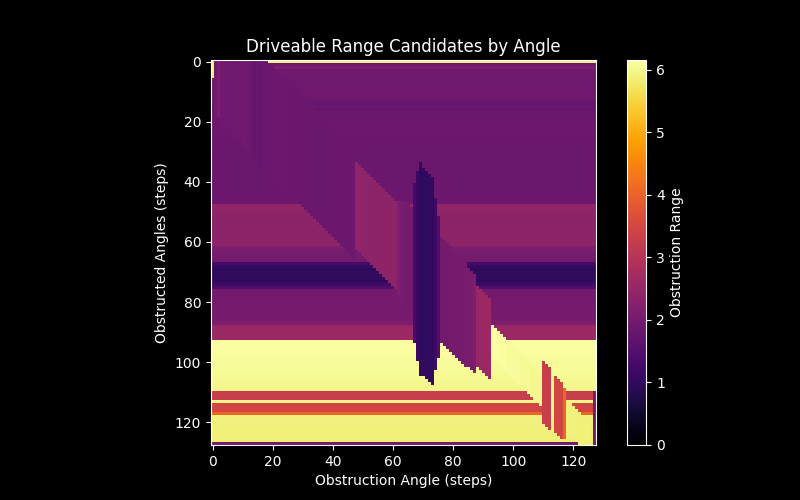
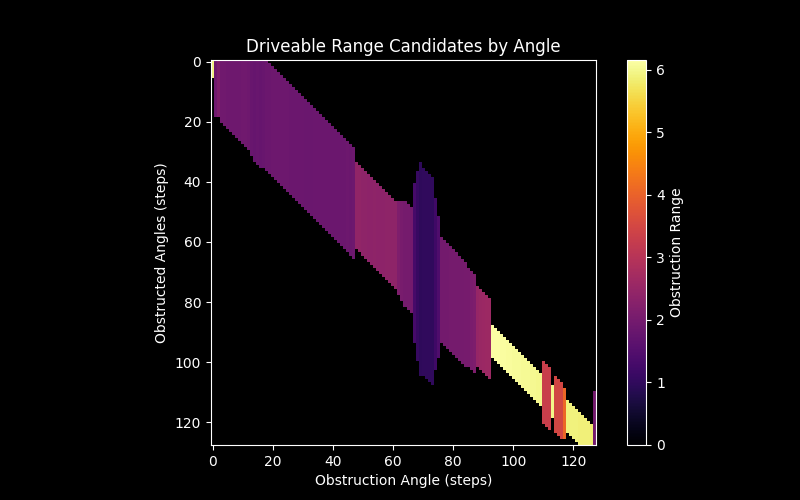
Save some energy broadcasting unused numbers

Changed region(s): [[0.25, 0.12, 0.75, 0.9]]

diff --git a/gapminder/__init__.py b/gapminder/__init__.py
@@ -67,7 +67,7 @@ class GapMinder(Node):
         r[(r < msg.range_min) | (r > msg.range_max)] = np.nan
 
         phi = np.arcsin(self.car_size / r) / self.angle_increment  # in steps
-        return np.where(self.delta_phi <= phi, r, r[:, np.newaxis])
+        return np.where(self.delta_phi <= phi, r, np.nan)
 
     def drive(self, angle: float, speed: float = None) -> None:
         """Drive at the given angle."""

diff --git a/README.md b/README.md
@@ -1,9 +1,9 @@
 ![](resource/drive-strategy.png)
 
-The design principle is that each point ($r, \theta$) obstructs some arc ($\theta\pm\phi$) that matches the car's width ($width_{car}$) at that range.
+The design principle is that each point ($r, \theta$) obstructs some arc ($\theta\pm\phi$) that matches the car's width ($w$) at that range:
 
-$\phi <= sin^{-1}(width_{car}/r)$
+$\phi = sin^{-1}(w/r)$
 
-The effective driveable distance in any direction is the minimum range of any point which obstructs that drive angle. We use matric math to do this quickly and conveniently:
+The effective driveable distance in any direction is the minimum range of any point which obstructs that drive angle. We use matrix math in `numpy` to do this quickly and conveniently, taking the minimum range of any relevant obstruction:
 
 ![](./resource/obstruction-map.png)
